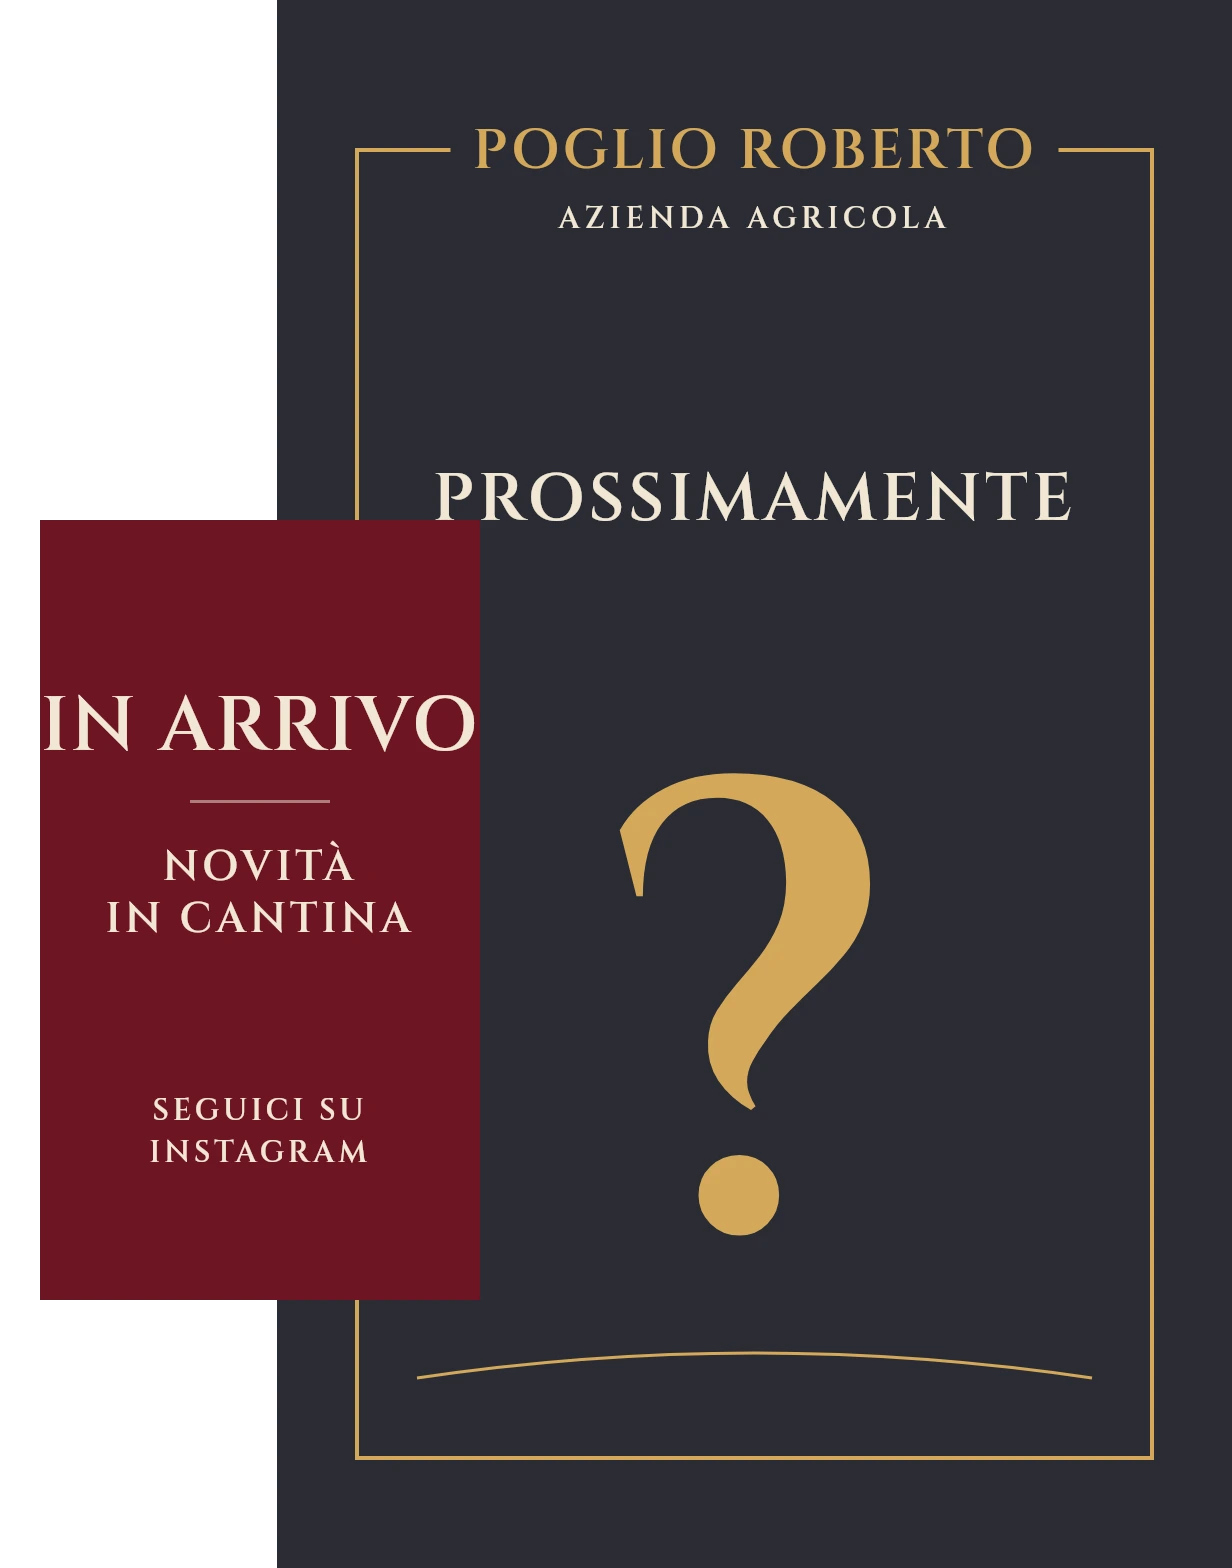
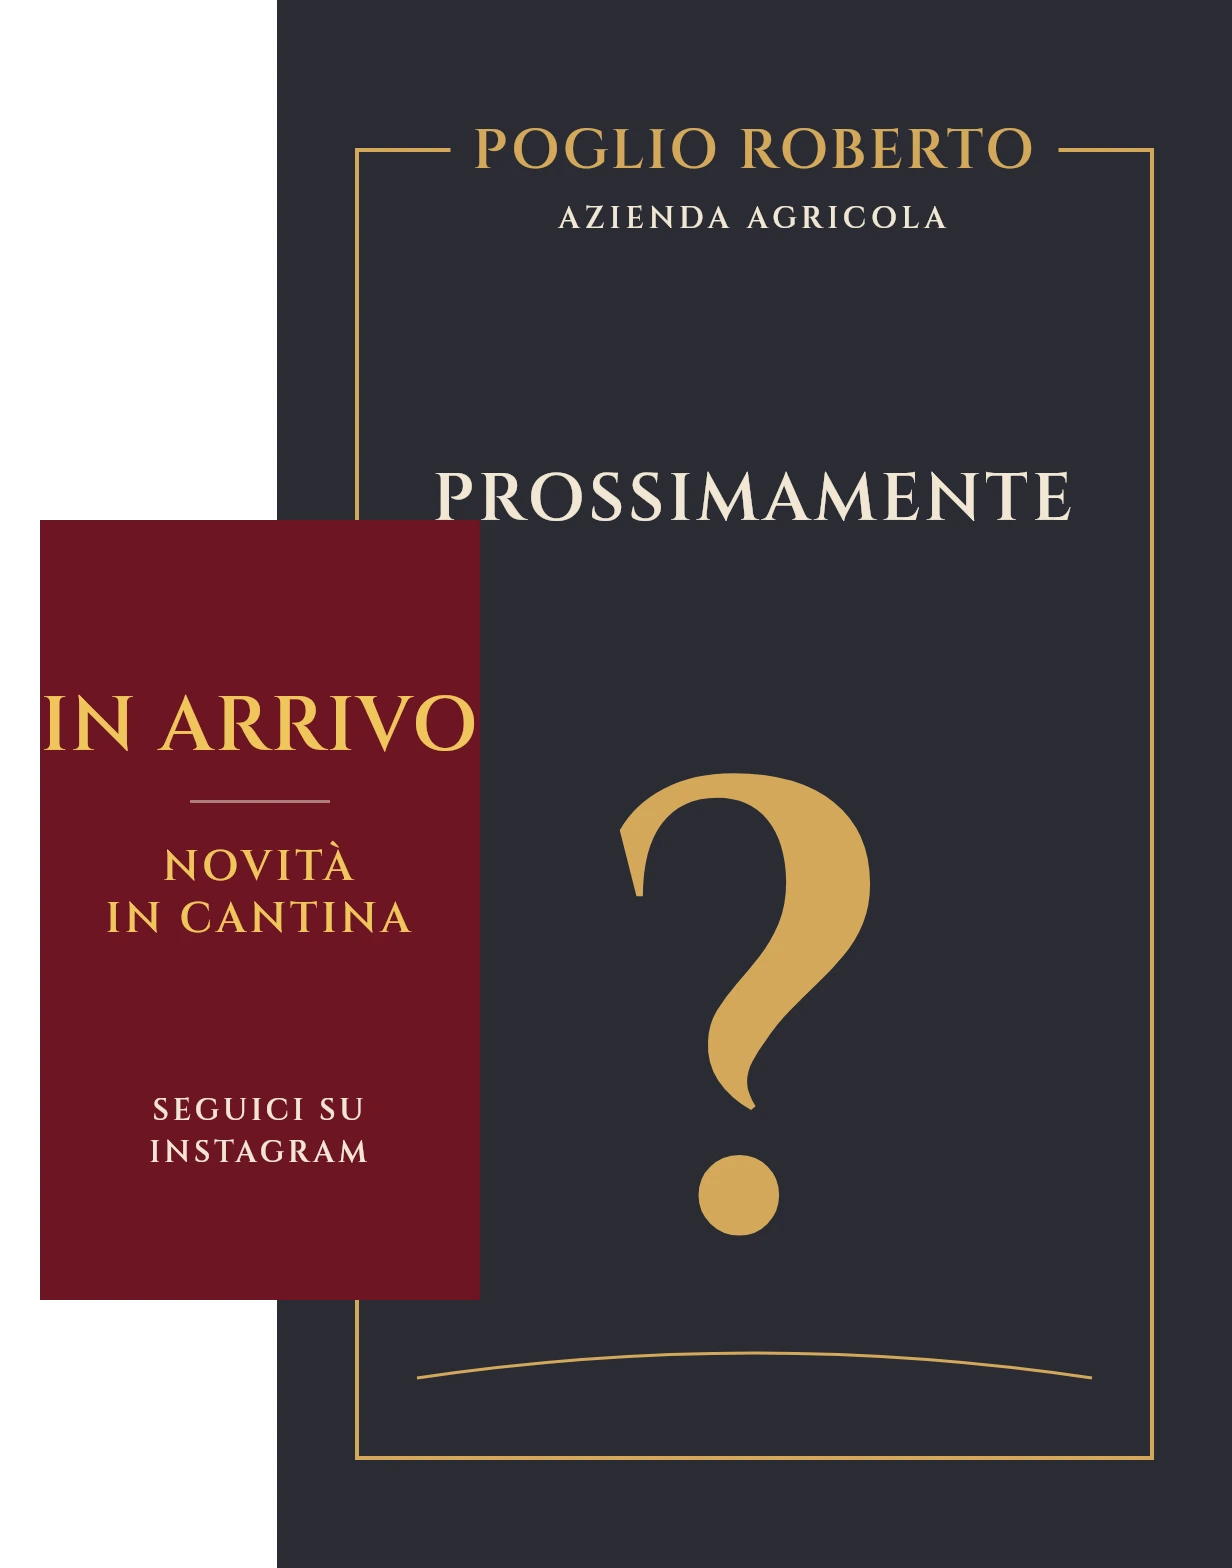
Novità em amarelo-âmbar para se destacar dos demais vinhos

Changed region(s): [[0.0308, 0.4375, 0.401, 0.5], [0.0925, 0.5312, 0.3393, 0.5938]]

diff --git a/src/components/Vini.tsx b/src/components/Vini.tsx
@@ -64,10 +64,12 @@ export function Vini() {
                   >
                     <span className={styles.num}>{String(i + 1).padStart(2, "0")}</span>
                     <span className={styles.names}>
-                      <span className={styles.name}>{w.name}</span>
+                      <span className={styles.name} style={w.accent ? { color: w.accent } : undefined}>
+                        {w.name}
+                      </span>
                       <span className={styles.denom}>{w.denom}</span>
                     </span>
-                    <i className={styles.swatch} style={{ background: w.tag }} aria-hidden />
+                    <i className={styles.swatch} style={{ background: w.accent ?? w.tag }} aria-hidden />
                   </button>
                 </li>
               ))}
@@ -98,7 +100,9 @@ export function Vini() {
           <Reveal delay={0.2} className={styles.infoCol}>
             <div key={wine.id} className={styles.info} aria-live="polite">
               <p className="occhiello red">{wine.denom}</p>
-              <h3 className={styles.title}>{wine.name}</h3>
+              <h3 className={styles.title} style={wine.accent ? { color: wine.accent } : undefined}>
+                {wine.name}
+              </h3>
               <p className={styles.text}>{wine.text}</p>
               {!wine.soon && (
                 <dl className={styles.facts}>

diff --git a/src/content/site.ts b/src/content/site.ts
@@ -111,6 +111,8 @@ export type Wine = {
   tag: string;
   /** garrafa "novità in arrivo": sem uva/annata, com chamada para o Instagram */
   soon?: boolean;
+  /** cor de destaque do nome (usada na garrafa "novità") */
+  accent?: string;
 };
 
 export const WINES: Wine[] = [
@@ -199,6 +201,7 @@ export const WINES: Wine[] = [
     liquid: "#1c0a10",
     tag: "#6e1423",
     soon: true,
+    accent: "#b07a12", // amarelo-âmbar: destaca das demais e mantém contraste sobre o creme
   },
 ];
 
